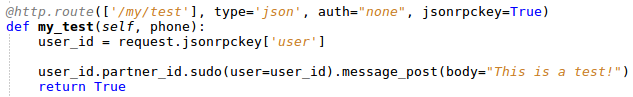
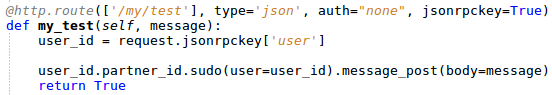
[8.0][IMP] Improve last commit

diff --git a/jsonrpc_keys/static/description/index.html b/jsonrpc_keys/static/description/index.html
@@ -51,7 +51,7 @@
 	"method": "call",
 	"params": {
[1 lines of base64/hex data omitted]
-		"num_tlf": "+34999999999"
+		"message": "This is a test!"
 	}
 }
        	 		</pre>
